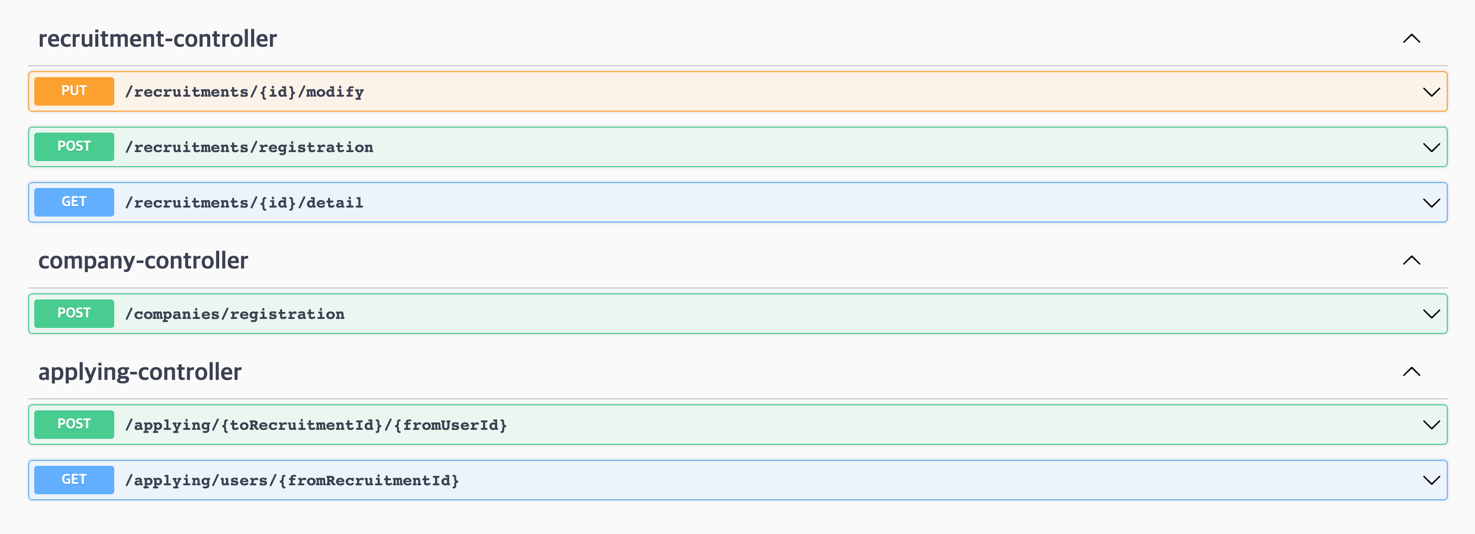
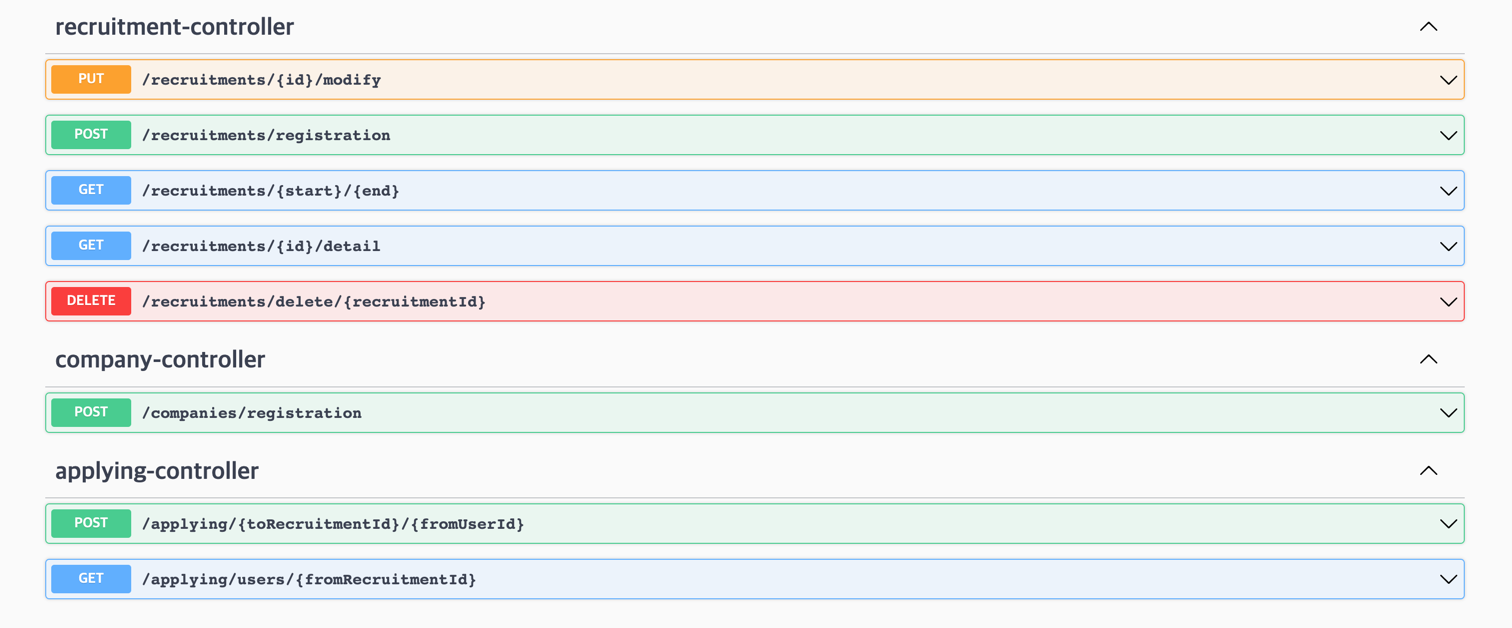
[main] update README.md
- 회고 추가
- ERD, API 명세 이미지 수정

Changed region(s): [[0.0, 0.03, 0.998, 0.9588]]

diff --git a/README.md b/README.md
@@ -10,6 +10,18 @@
 
 ---
 
+## 기능 구현
+
+- [x] 회사는 채용공고를 등록할 수 있다.
+- [x] 회사는 채용공고내용을 수정할 수 있다.
+- [x] 회사는 채용공고를 삭제할 수 있다.
+- [x] 사용자는 채용공고에 지원할 수 있다.
+- [x] 해당공고에 지원한 유저들을 볼 수 있다.
+- [x] 사용자는 채용공고 목록을 볼 수 있다.
+- [ ] 채용공고 검색기능을 제공한다.
+
+---
+
 ## 요구사항
 
 1. **채용공고를 등록합니다.**
@@ -51,85 +63,37 @@
 3. **채용공고를 삭제합니다.**
 
     <aside>
-    ➡ DB에서 삭제됩니다.
+    ➡ DB에서 삭제됩니다. 사용자가 해당 채용공고에 지원한 내용도 함께 삭제됩니다.
     </aside>
 
 4. **채용공고 목록을 가져옵니다.**
 
     <aside>
-    ➡ 4-1. 사용자는 채용공고 목록을 아래와 같이 확인할 수 있습니다.
+    ➡ 사용자는 채용공고 목록을 아래와 같이 확인할 수 있습니다.
     </aside>
 ``` JSON
-Example)
 [
-	{
-   	  "채용공고_id": 채용공고_id,
-	  "회사명":"원티드랩",
-	  "국가":"한국",
-	  "지역":"서울",
-	  "채용포지션":"백엔드 주니어 개발자",
-	  "채용보상금":1500000,
-	  "사용기술":"Python"
-	},
-	{
-	  "채용공고_id": 채용공고_id,
-	  "회사명":"네이버",
-	  "국가":"한국",
-	  "지역":"판교",
-	  "채용포지션":"Django 백엔드 개발자",
-	  "채용보상금":1000000,
-	  "사용기술":"Django"
-	},
-  ...
-]
-```
-<aside>
-    ➡ 4-2. 채용공고 검색 기능 구현(선택사항 및 가산점요소).
-</aside>
-
-```JSON
-# Example - 1) some/url?search=원티드
-[
-	{
-      "채용공고_id": 채용공고_id,
-	  "회사명":"원티드랩",
-	  "국가":"한국",
-	  "지역":"서울",
-	  "채용포지션":"백엔드 주니어 개발자",
-	  "채용보상금":1500000,
-	  "사용기술":"Python"
-	},
-	{
-      "채용공고_id": 채용공고_id,
-	  "회사명":"원티드코리아",
-	  "국가":"한국",
-	  "지역":"부산",
-	  "채용포지션":"프론트엔드 개발자",
-	  "채용보상금":500000,
-	  "사용기술":"javascript"
-	}
-]
-
-# Example - 2) some/url?search=Django
-[
-	{
-      "채용공고_id": 채용공고_id,
-	  "회사명":"네이버",
-	  "국가":"한국",
-	  "지역":"판교",
-	  "채용포지션":"Django 백엔드 개발자",
-	  "채용보상금":1000000,
-	  "사용기술":"Django"
-	},
-	{
-      "채용공고_id": 채용공고_id,
-	  "회사명":"카카오",
-	  "국가":"한국",
-	  "지역":"판교",
-	  "채용포지션":"Django 백엔드 개발자",
-	  "채용보상금":500000,
-	  "사용기술":"Python"
-	}
+  {
+    "title": "자바개발자 구해요",
+    "companyName": "채용디자인",
+    "region": "서울",
+    "country": "한국",
+    "position": "웹 백엔드",
+    "compensation": 1000000,
+    "skill": "java",
+    "deadline": "2023-10-20"
+  },
+  {
+    "title": "자바개발자 구해요",
+    "companyName": "채용디자인",
+    "region": "서울",
+    "country": "한국",
+    "position": "웹 백엔드",
+    "compensation": 1000000,
+    "skill": "java",
+    "deadline": "2023-10-20"
+  },
+ 
   ...
 ]
 ```
@@ -145,15 +109,14 @@ Example)
 
 ``` JSON
 {
-  "id": 1,
+  "id": 11,
   "companyName": "채용디자인",
-  "position": "PM",
-  "compensation": 1500000,
-  "skill": "javascript",
-  "deadline": "2023-10-22",
-  "contents": "신규 Product 관리할 pm 구합니다. ... ",
+  "position": "웹 백엔드",
+  "compensation": 1000000,
+  "skill": "java",
+  "deadline": "2023-10-20",
+  "contents": "데브툴즈는 블록체인 기반 솔루션을 통해 탈중앙화된 금융/게임 DApps를 제공합니다.\n\n 블록체인 산업에서 부족한 '사용성'과 '확장성' 문제를 해결하려는 비전을 품고 있죠.\n자체 개발한 블록체인 메인넷을 기반으로 누구나 쉽게 탈중앙화 금융 및 게임 서비스를 즐길 수 있도록 산업을 혁신하고자 합니다.\n우리와 함께 새로운 web3 생태계를 확장해나갈 여러분을 기다립니다.",
   "otherRecruitmentIds": [
-    1,
     2,
     3,
     4,
@@ -162,7 +125,16 @@ Example)
     7,
     8,
     9,
-    10
+    10,
+    11,
+    12,
+    13,
+    14,
+    15,
+    16,
+    17,
+    18,
+    19
   ]
 }
 ```
@@ -181,19 +153,8 @@ url path = /applying/{toRecruitmentId}/{fromUserId}
 ---
 
 ## API 명세 (_Swagger_)
+
 ![img.png](img.png)
-
----
-
-## 기능 구현
-
-- [x] 회사는 채용공고를 등록할 수 있다.
-- [x] 회사는 채용공고내용을 수정할 수 있다.
-- [ ] 회사는 채용공고를 삭제할 수 있다.
-- [x] 사용자는 채용공고에 지원할 수 있다.
-- [x] 해당공고에 지원한 유저들을 볼 수 있다.
-- [ ] 사용자는 채용공고 목록을 볼 수 있다.
-- [ ] 채용공고 검색기능을 제공한다.
 
 ---
 
@@ -203,3 +164,14 @@ url path = /applying/{toRecruitmentId}/{fromUserId}
 
 ---
 
+## 회고
+
+- 채용공고에 지원하기 기능을 구현하다가 보니 service 로직에서 사용자와 채용공고 사이의 강한 결합이 발생할 것 같았다.
+  - 이를 해결하기위해 controller에서 넘겨받는 사용자id와 채용공고id를 이용해 usecase라는 service클래스를 만들어 사용자와 채용공고를 잇는 목적으로 사용했다.
+  - 해당 아키텍처에서는 ApplyWriteService 와 UserReadService를 연결해주기 위한 클래스가 있기 때문에 스파게티코드를 줄일 수 있었다. 
+
+- 채용공고 삭제시 해당 공고에 지원한 내용이 있는 data처리가 곤란했다.
+  - JPA 양방향 매핑을 고려했지만, 간단한 기능을 구현하기 위해 Applying Table로 정규화 했다.
+
+- 회사 더미데이터를 어떻게 생성할까 고민했다. easyRandom 라이브러리를 사용해 mock data를 삽입할까 생각했지만,jsoup 라이브러리를 사용해 실제 jobkorea를 크롤링했고 It회사 data를 삽입했다.
+이 과정에서 혹시 다른 데이터가 필요할 시 어떻게 사용하면 될지까지 학습할 수 있었다.
